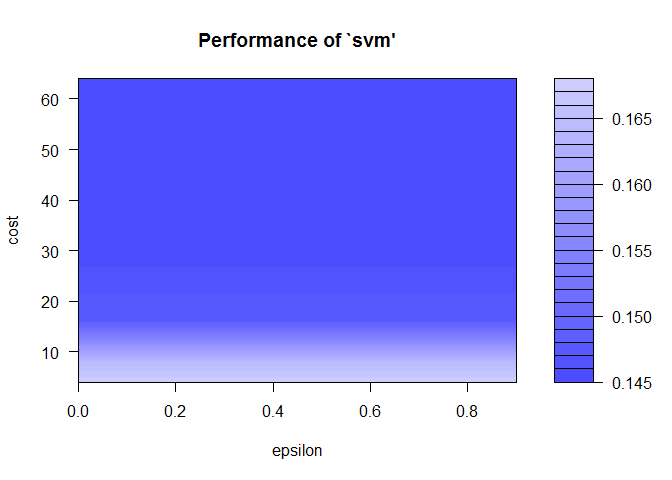
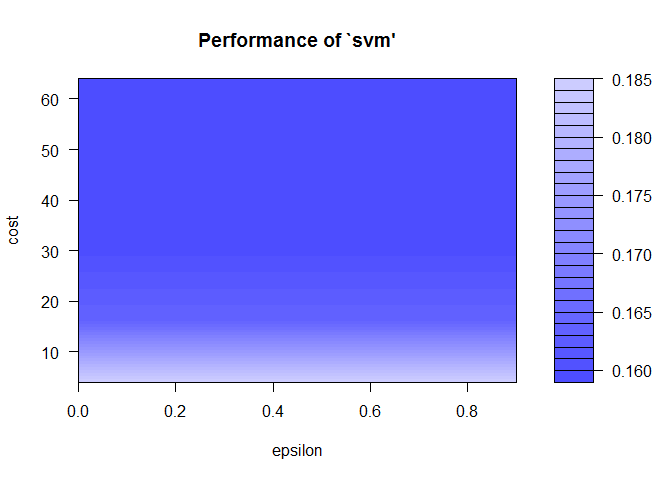
Updated comments.

diff --git a/predmachlearn-031/predict.html b/predmachlearn-031/predict.html
@@ -140,7 +140,7 @@ cv &lt;- t[[2]]</code></pre>
 <h2>Analysis Model 1: Neural Network</h2>
 <p>Our first analysis will utilize a neural network to attempt to model the data. By using differing numbers of neurons in the hidden layer, we can control bias and variance. The larger the number of hidden neurons, the larger the variance, and potential exists for overfitting. More neurons also increases training time. It is therefore important to limit the hidden layer size, according to the data.</p>
 <p>Our neural network consists of 52 input nodes, one for each usable column in the training set, and 5 output nodes. The output nodes dictate the classification (the node with the highest value relates the classification).</p>
-<pre class="r"><code># Analysis 1: Create neural network model on training set. Input: 5 nodes, Hidden: 8 nodes, Output: 1 node.
+<pre class="r"><code># Analysis 1: Create neural network model on training set.
 #mod1 &lt;- nnet(classe ~ . - num_window - cvtd_timestamp - raw_timestamp_part_1 - raw_timestamp_part_2 - user_name - X, data = training, maxit = 10000, size = 12)
 
 # Predict results of nnet on training.
@@ -156,20 +156,19 @@ cv &lt;- t[[2]]</code></pre>
 <div id="analysis-model-2-support-vector-machine-svm" class="section level2">
 <h2>Analysis Model 2: Support Vector Machine (SVM)</h2>
 <p>Our second analysis uses a support vector machine to model the data. We begin by determining the optimal settings for the SVM. Specifically, we’ll configure the cost and gamma variables, which indicate how closely to fit the data with regard to bias and variance.</p>
-<p>We use the tune method to perform an SVM grid search on a small subset of the training data. This runs the SVM using a range of values for cost and gamma. The best fitting values can be used to run on the entire training set. We limit the training data used in the tuning to a small number of rows, as this process can consume a considerate amount of time (multiple SVMs are trained within a loop).</p>
-<pre class="r"><code># Analysis 2: SVM
-# First, determine optimal svm settings by doing an SVM grid search on a subset of the training data (doing a grid search on the full training set would take too long). epsilon = from 0 to 1, step 0.3. cost = 2^2, 2^3 ... 2^6.
+<p>We use the tune method to perform an SVM grid search on a small subset of the training data. This runs the SVM using a range of values for cost and gamma. The best fitting values can be used to run on the entire training set. We limit the training data used in the tuning to a small number of rows, as this process can consume a considerable amount of time (multiple SVMs are trained within a loop).</p>
+<pre class="r"><code># First, determine optimal svm settings by doing an SVM grid search on a subset of the training data (doing a grid search on the full training set would take too long). epsilon = from 0 to 1, step 0.3. cost = 2^2, 2^3 ... 2^6.
 tuneResult &lt;- tune(svm, classe ~ . - num_window - cvtd_timestamp - raw_timestamp_part_1 - raw_timestamp_part_2 - user_name - X, data = head(training, 1000), ranges = list(epsilon = seq(0,1,0.3), cost = 2^(2:6)))
 
 # Get the best svm and take its cost and gamma values to run on the full training data set.
 tunedModel &lt;- tuneResult$best.model
 cost &lt;- tuneResult$best.model$cost
 gamma &lt;- tuneResult$best.model$gamma</code></pre>
-<pre><code>## [1] &quot;Optimal cost: 64&quot;</code></pre>
+<pre><code>## [1] &quot;Optimal cost: 32&quot;</code></pre>
 <pre><code>## [1] &quot;Optimal gamma: 0.0192307692307692&quot;</code></pre>
 <p>Once our tuning is complete, we can visualize the results. Although the best.model property allows us to automatically access the optimal SVM settings, it is useful to view a map of the resulting models.</p>
 <pre class="r"><code>plot(tuneResult)</code></pre>
[2 lines of base64/hex data omitted]
 <p><em>Figure 2. A visualization of the SVM tuning process. Darker colors indicate a better fit and are likely to result in a more accurate model.</em></p>
 <p>We can now create an SVM with the optimized settings and train our model.</p>
 <pre class="r"><code># Create an svm model on training set.

diff --git a/predmachlearn-031/predict.md b/predmachlearn-031/predict.md
@@ -104,7 +104,7 @@ Our neural network consists of 52 input nodes, one for each usable column in the
 
 
 ```r
-# Analysis 1: Create neural network model on training set. Input: 5 nodes, Hidden: 8 nodes, Output: 1 node.
+# Analysis 1: Create neural network model on training set.
 #mod1 <- nnet(classe ~ . - num_window - cvtd_timestamp - raw_timestamp_part_1 - raw_timestamp_part_2 - user_name - X, data = training, maxit = 10000, size = 12)
 
 # Predict results of nnet on training.
@@ -122,11 +122,10 @@ Our neural network consists of 52 input nodes, one for each usable column in the
 
 Our second analysis uses a support vector machine to model the data. We begin by determining the optimal settings for the SVM. Specifically, we'll configure the cost and gamma variables, which indicate how closely to fit the data with regard to bias and variance.
 
-We use the tune method to perform an SVM grid search on a small subset of the training data. This runs the SVM using a range of values for cost and gamma. The best fitting values can be used to run on the entire training set. We limit the training data used in the tuning to a small number of rows, as this process can consume a considerate amount of time (multiple SVMs are trained within a loop).
+We use the tune method to perform an SVM grid search on a small subset of the training data. This runs the SVM using a range of values for cost and gamma. The best fitting values can be used to run on the entire training set. We limit the training data used in the tuning to a small number of rows, as this process can consume a considerable amount of time (multiple SVMs are trained within a loop).
 
 
 ```r
-# Analysis 2: SVM
 # First, determine optimal svm settings by doing an SVM grid search on a subset of the training data (doing a grid search on the full training set would take too long). epsilon = from 0 to 1, step 0.3. cost = 2^2, 2^3 ... 2^6.
 tuneResult <- tune(svm, classe ~ . - num_window - cvtd_timestamp - raw_timestamp_part_1 - raw_timestamp_part_2 - user_name - X, data = head(training, 1000), ranges = list(epsilon = seq(0,1,0.3), cost = 2^(2:6)))
 
@@ -138,7 +137,7 @@ gamma <- tuneResult$best.model$gamma
 
 
 ```
-## [1] "Optimal cost: 64"
+## [1] "Optimal cost: 32"
 ```
 
 ```
